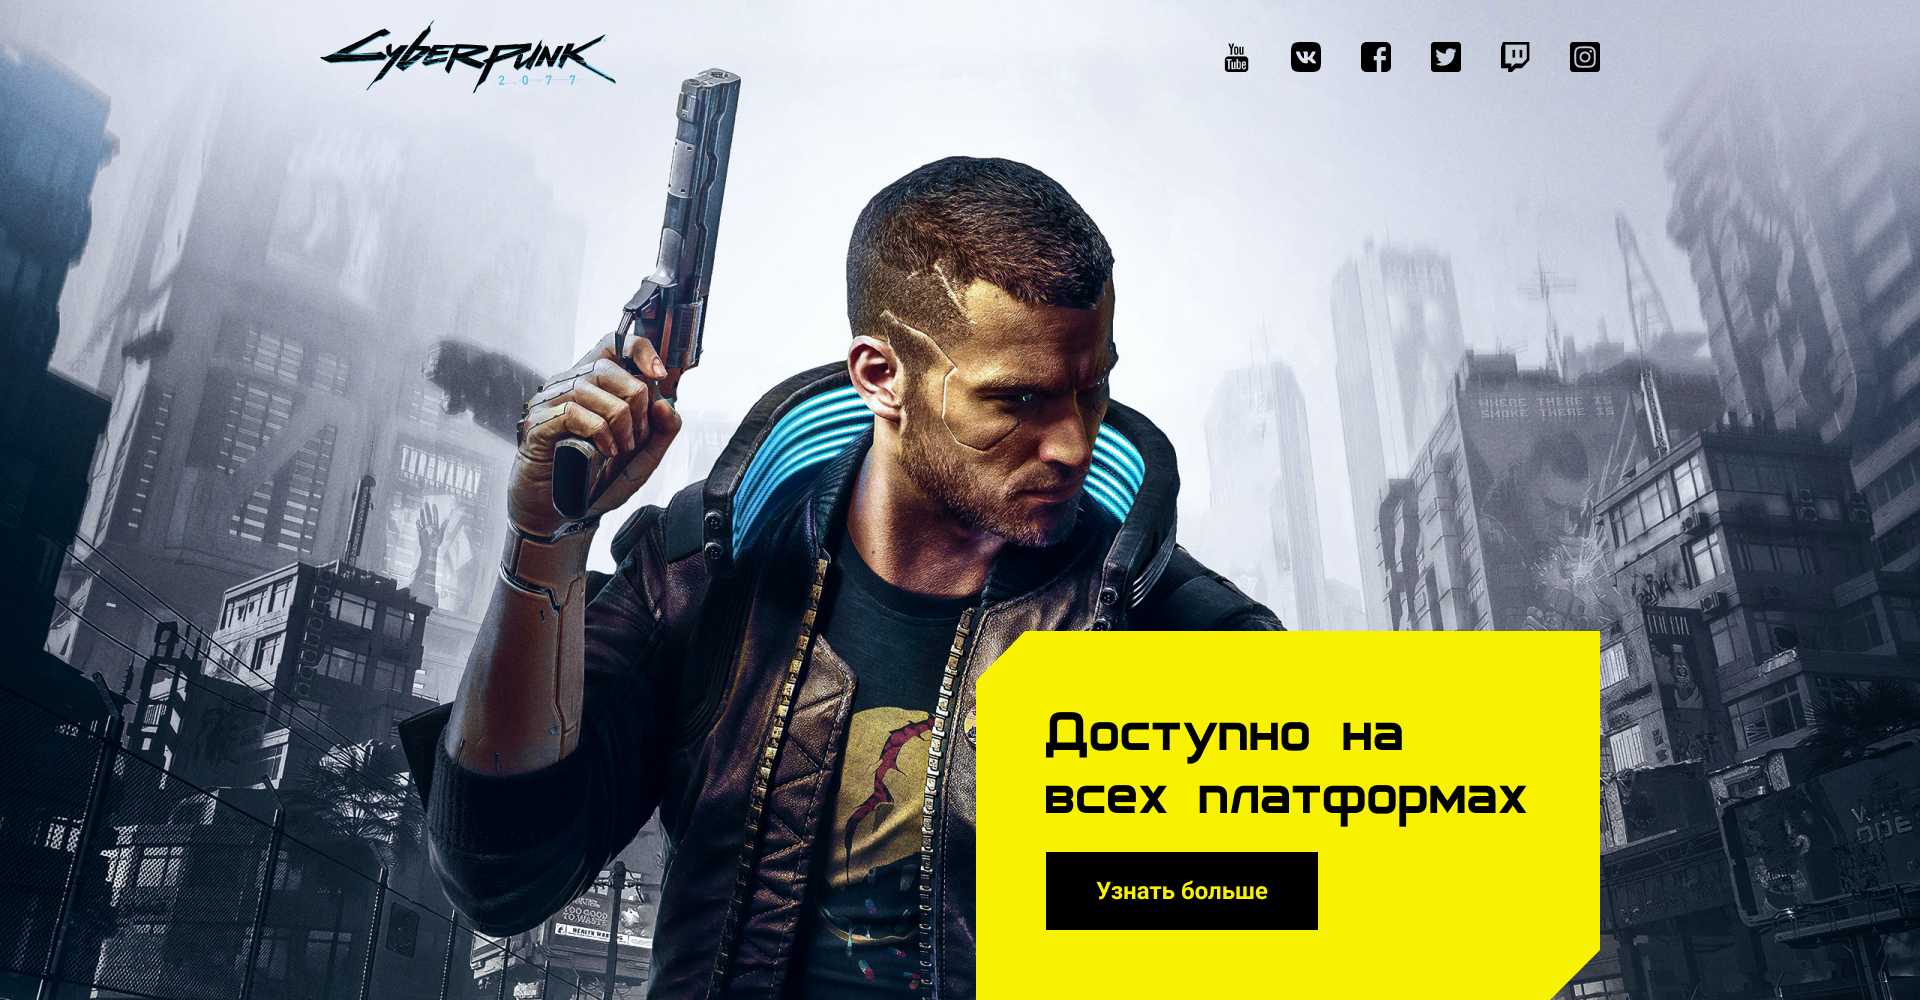
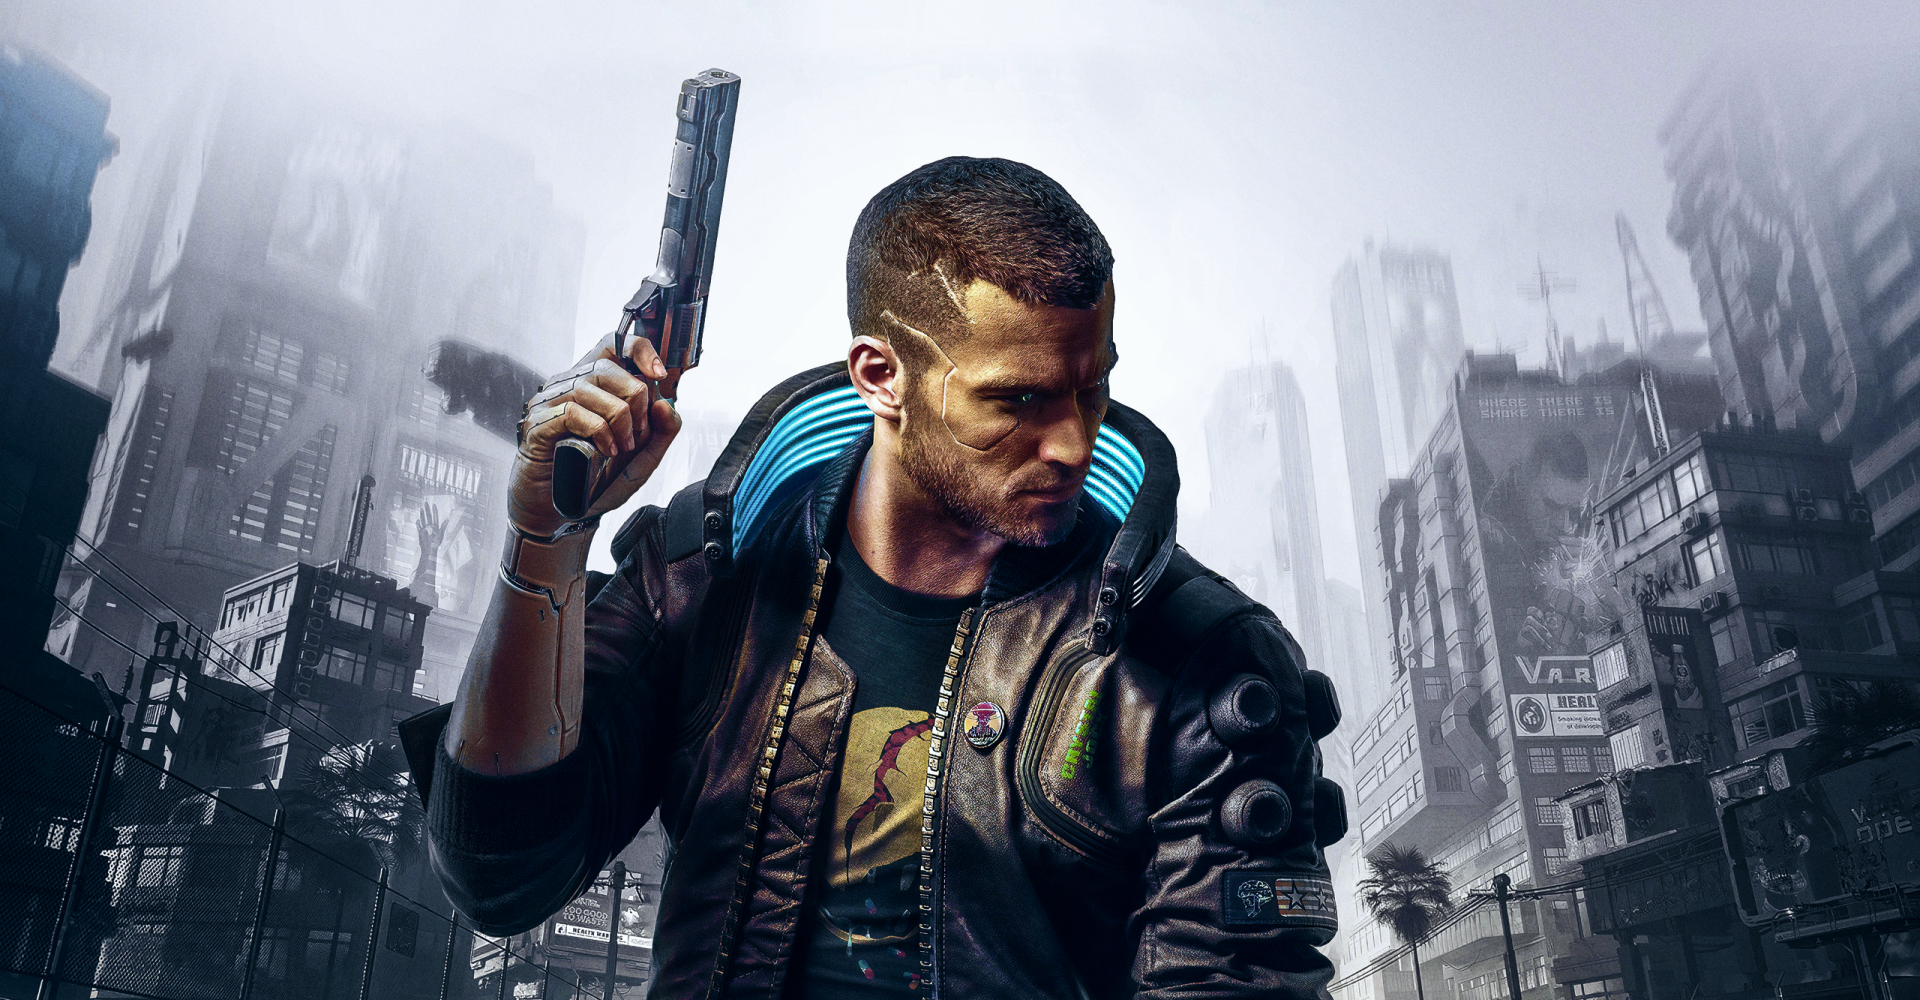
create response design

Changed region(s): [[0.5, 0.62, 0.8438, 1.0], [0.625, 0.031, 0.8438, 0.093], [0.1562, 0.031, 0.3125, 0.093]]

diff --git a/style.scss b/style.scss
@@ -45,9 +45,15 @@ body {
 
 .container {
     min-width: var(--mobile);
-    width: 100%;
+    width: 90%;
     margin: 0 auto;
     padding: 0 12px;
+
+    @media(min-width: 1024px) {
+        padding: 0 100px;
+        max-width: 1920px;
+        width: 60%;
+    }
 }
 
 .header {
@@ -58,16 +64,76 @@ body {
     display: flex;
     flex-direction: column;
     justify-content: space-between;
+
+    @media(min-width: 500px) {
+        background-image: url(./images/hero-tablet.jpg);
+    }
+
+    @media(min-width: 780px) {
+        background-image: url(./images/hero-desctop.jpg);
+        min-height: 1000px;
+    }
 }
 
 .nav {
+    padding-top: 20px;
     margin: 0 auto;
     width: 100%;
     display: flex;
     flex-direction: column;
     align-items: center;
     gap: 10px;
+
+    @media(min-width: 780px) {
+        flex-direction: row;
+        justify-content: space-between;
+    }
+
+
+    &__links {
+        display: flex;
+        justify-content: space-between;
+        width: 100%;
+        align-items: center;
+
+        @media(min-width: 500px) {
+            width: 65%;
+        }
+
+        @media(min-width: 780px) {
+            max-width: 379px;
+        }
+
+    }
+
+    &__icon {
+        width: 25px;
+        height: 25px;
+
+        @media(min-width:500px) {
+            width: 30px;
+            height: 30px;
+        }
+
+        @media(min-width: var(--tablet)) {
+            width: 35px;
+            height: 35px;
+        }
+
+    }
+
+    &__logo {
+        width: 200px;
+        height: 50px;
+
+        @media(min-width: 780px) {
+            width: 300px;
+            height: 75px;
+        }
+    }
 }
+
+
 
 .square {
     min-width: 320px;
@@ -80,12 +146,26 @@ body {
     gap: 25px;
     align-items: center;
 
+    @media(min-width:780px) {
+        max-width: 624px;
+        height: auto;
+        padding: 70px;
+        width: 100%;
+        margin-right: 36px;
+        margin-bottom: 0;
+    }
+
     &__title {
         font-family: "Archangelsk";
         font-weight: 600;
         font-size: 30px;
         text-align: center;
         color: var(--text-primary);
+
+        @media(min-width: 780px) {
+            font-size: 62px;
+            text-align: left;
+        }
     }
 
     &__btn {
@@ -95,6 +175,12 @@ body {
         text-align: center;
         color: var(--yellow);
         background-color: var(--text-primary);
-        padding: 50px 10px;
+        padding: 10px 50px;
+
+        @media(min-width: 780px) {
+            font-size: 24px;
+            width: 290px;
+        }
     }
+
 }

diff --git a/style.css b/style.css
@@ -42,9 +42,16 @@ body {
 
 .container {
   min-width: var(--mobile);
-  width: 100%;
+  width: 90%;
   margin: 0 auto;
   padding: 0 12px;
+}
+@media (min-width: 1024px) {
+  .container {
+    padding: 0 100px;
+    max-width: 1920px;
+    width: 60%;
+  }
 }
 
 .header {
@@ -56,14 +63,74 @@ body {
   flex-direction: column;
   justify-content: space-between;
 }
+@media (min-width: 500px) {
+  .header {
+    background-image: url(./images/hero-tablet.jpg);
+  }
+}
+@media (min-width: 780px) {
+  .header {
+    background-image: url(./images/hero-desctop.jpg);
+    min-height: 1000px;
+  }
+}
 
 .nav {
+  padding-top: 20px;
   margin: 0 auto;
   width: 100%;
   display: flex;
   flex-direction: column;
   align-items: center;
   gap: 10px;
+}
+@media (min-width: 780px) {
+  .nav {
+    flex-direction: row;
+    justify-content: space-between;
+  }
+}
+.nav__links {
+  display: flex;
+  justify-content: space-between;
+  width: 100%;
+  align-items: center;
+}
+@media (min-width: 500px) {
+  .nav__links {
+    width: 65%;
+  }
+}
+@media (min-width: 780px) {
+  .nav__links {
+    max-width: 379px;
+  }
+}
+.nav__icon {
+  width: 25px;
+  height: 25px;
+}
+@media (min-width: 500px) {
+  .nav__icon {
+    width: 30px;
+    height: 30px;
+  }
+}
+@media (min-width: var(--tablet)) {
+  .nav__icon {
+    width: 35px;
+    height: 35px;
+  }
+}
+.nav__logo {
+  width: 200px;
+  height: 50px;
+}
+@media (min-width: 780px) {
+  .nav__logo {
+    width: 300px;
+    height: 75px;
+  }
 }
 
 .square {
@@ -78,12 +145,28 @@ body {
   gap: 25px;
   align-items: center;
 }
+@media (min-width: 780px) {
+  .square {
+    max-width: 624px;
+    height: auto;
+    padding: 70px;
+    width: 100%;
+    margin-right: 36px;
+    margin-bottom: 0;
+  }
+}
 .square__title {
   font-family: "Archangelsk";
   font-weight: 600;
   font-size: 30px;
   text-align: center;
   color: var(--text-primary);
+}
+@media (min-width: 780px) {
+  .square__title {
+    font-size: 62px;
+    text-align: left;
+  }
 }
 .square__btn {
   font-family: var(--font-family);
@@ -92,5 +175,11 @@ body {
   text-align: center;
   color: var(--yellow);
   background-color: var(--text-primary);
-  padding: 50px 10px;
+  padding: 10px 50px;
+}
+@media (min-width: 780px) {
+  .square__btn {
+    font-size: 24px;
+    width: 290px;
+  }
 }/*# sourceMappingURL=style.css.map */

diff --git a/index.html b/index.html
@@ -15,12 +15,12 @@
             <nav class="nav">
                 <a href="./index.html" class="nav__logo"><img src="./images/logo.svg" alt="logo"></a>
                 <div class="nav__links">
-                    <a class="nav__link" href="#"><img src="./images/facebook.svg" alt="facebook"></a>
-                    <a class="nav__link" href="#"><img src="./images/instagram.svg" alt="instagram"></a>
-                    <a class="nav__link" href="#"><img src="./images/twitch.svg" alt="twitch"></a>
-                    <a class="nav__link" href="#"><img src="./images/twitter.svg" alt="twitter"></a>
-                    <a class="nav__link" href="#"><img src="./images/vk.svg" alt="vk"></a>
-                    <a class="nav__link" href="#"> <img src="./images/YouTube.svg" alt="YouTube"></a>
+                    <a class="nav__link" href="#"><img class="nav__icon" src="./images/facebook.svg" alt="facebook"></a>
+                    <a class="nav__link" href="#"><img class="nav__icon" src="./images/instagram.svg" alt="instagram"></a>
+                    <a class="nav__link" href="#"><img class="nav__icon" src="./images/twitch.svg" alt="twitch"></a>
+                    <a class="nav__link" href="#"><img class="nav__icon" src="./images/twitter.svg" alt="twitter"></a>
+                    <a class="nav__link" href="#"><img class="nav__icon" src="./images/vk.svg" alt="vk"></a>
+                    <a class="nav__link" href="#"> <img class="nav__icon" src="./images/YouTube.svg" alt="YouTube"></a>
                 </div>
 
             </nav>
